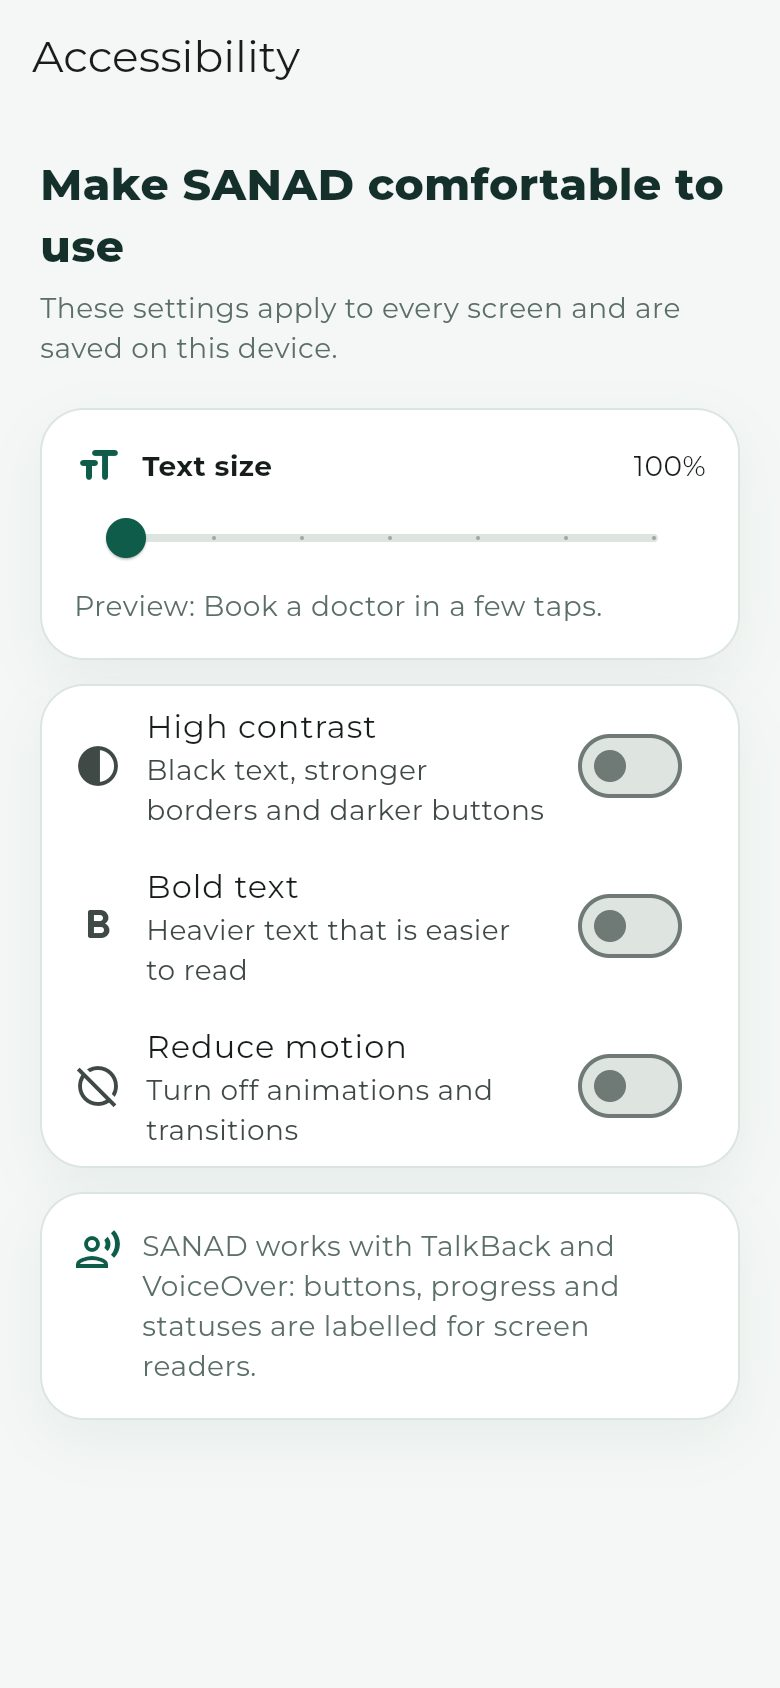
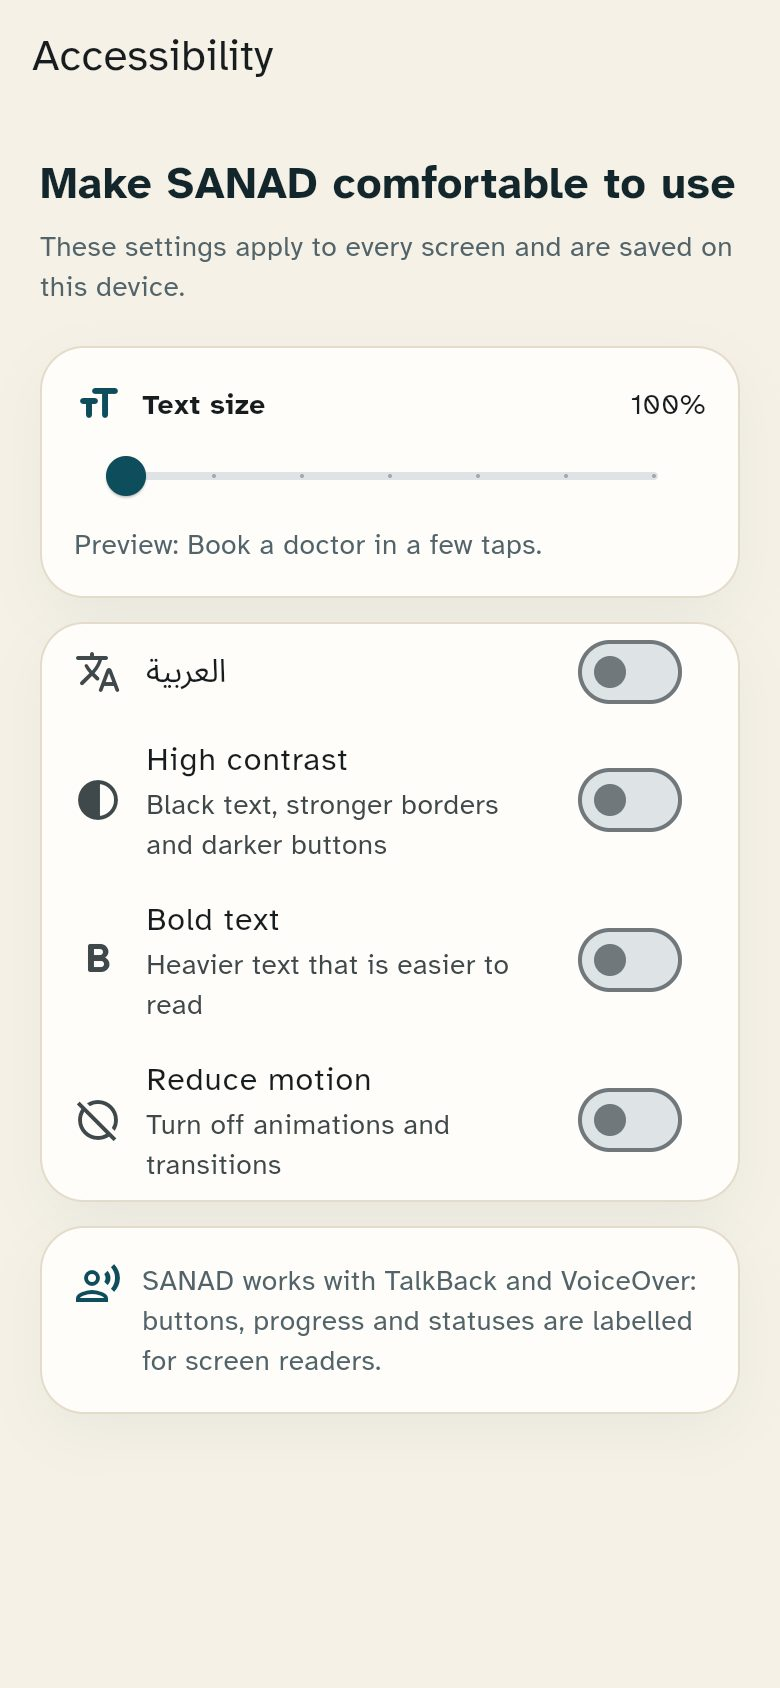
Fresh SANAD screenshots after the redesign

diff --git a/docs/PLAN.md b/docs/PLAN.md
@@ -65,11 +65,13 @@ The goal is work that looks designed by a person, not generated.
 - [ ] Waiting on Eyad: Firebase authorised domain for web sign-in
 
 ### 3. SANAD: full UI/UX redesign
-- [ ] Brand: civic and trustworthy, accessibility first; personality, palette, type pair, icon family, illustration style
+- [x] Brand (docs/BRAND.md in the repo): deep teal and sand, Atkinson Hyperlegible + Noto Sans Arabic, geometric emblems drawn in code, new wordmark (decided by Claude per Eyad's go-ahead)
 - [ ] UX review: services, applications, appointments, Activity, accessibility settings, staff portal
 - [ ] Redesign every screen (the older form pages are the weakest), phone, tablet and desktop, EN and AR
-- [ ] Custom illustrations for each service area and for empty states
-- [ ] New app icon, splash screen and landing page
+- [x] Emblems for every service area and the What's new banner
+- [ ] Emblems in empty states
+- [x] Landing page restyled
+- [ ] New app icon and splash screen
 
 ### 4. Mini Shop: rename and full redesign
 - [x] New name and focus: The Maker's Market, Egyptian handmade crafts and home goods
